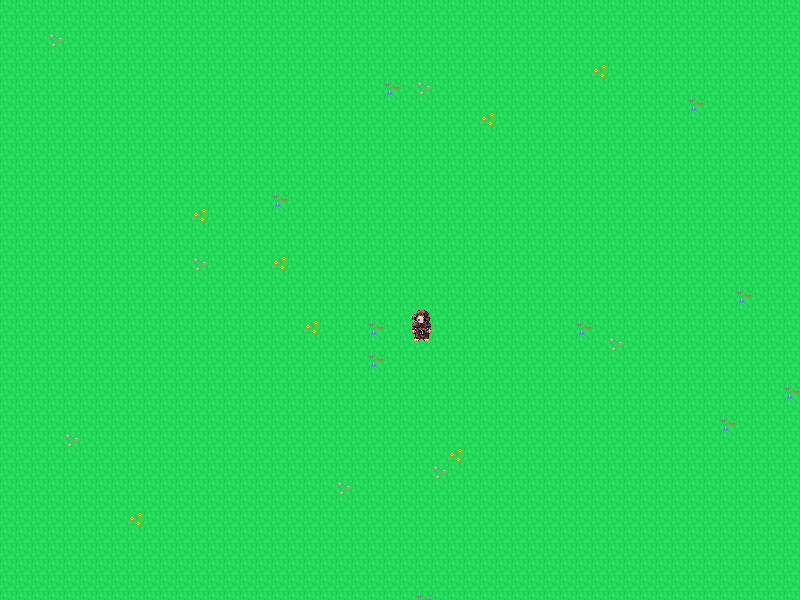
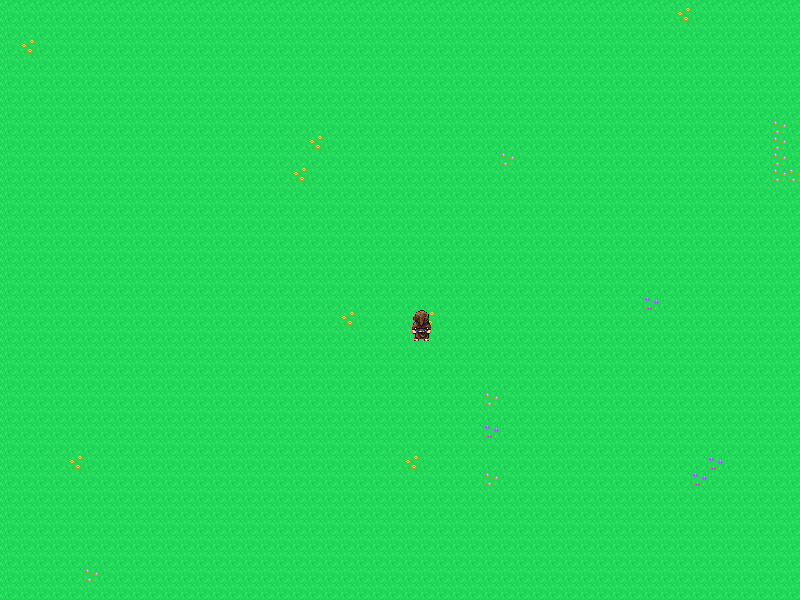
Bug fixes

Changed region(s): [[0.0, 0.0, 1.0, 1.0]]

diff --git a/src/gameplay/player.py b/src/gameplay/player.py
@@ -26,7 +26,7 @@ class Player:
         self.camera_x = x_pos
         self.camera_y = y_pos
 
-    def display(self, screen):
+    def display(self, screen, map):
         pressed_keys = pygame.key.get_pressed()
 
         # Move on keypress
@@ -63,11 +63,23 @@ class Player:
         self.camera_x = self.x_pos - CONFIG.WINDOW_WIDTH / 2
         self.camera_y = self.y_pos - CONFIG.WINDOW_HEIGHT / 2
 
-        # TODO: Do not let the user see the corner of the map
-        if self.camera_x <= 0 and self.x_speed <= 0:
+        # Do not let the user see the corner of the map
+        if self.camera_x <= 0:
             self.camera_x = 0
-        if self.camera_y <= 0 and self.y_speed <= 0:
+        if self.camera_y <= 0:
             self.camera_y = 0
+        if self.camera_x >= map.layer_size[0]:
+            self.camera_x = map.layer_size[0]
+        if self.camera_y >= map.layer_size[1]:
+            self.camera_y = map.layer_size[1]
+
+        # TODO: Do not let the user go out from the map
+        if self.x_pos + map.tileset.tile_size[0] < 0:
+            self.x_pos = 0
+            self.x_speed = 0
+        if self.y_pos + map.tileset.tile_size[1] < 0:
+            self.y_pos = 0
+            self.y_speed = 0
 
         # print('Camera:', (self.camera_x, self.camera_y), 'Pos:', (self.x_pos, self.y_pos), 'Speed:', (self.x_speed, self.y_speed))
         self.body.display(screen, self)

diff --git a/src/screens/game.py b/src/screens/game.py
@@ -36,18 +36,18 @@ class GameScreen(Screen):
         self.in_game_exit_button = Button(96, CONFIG.WINDOW_HEIGHT - 96 - button_margin, label='EXIT')
 
     def display_game(self, screen):
-        self.map.display(self.player, screen)
-        self.player.display(screen)
+        self.map.display(screen, self.player)
+        self.player.display(screen, self.map)
 
         if pygame.key.get_pressed()[pygame.locals.K_ESCAPE]:
-    
+
             # Save game screenshot as a background
             pygame.image.save(screen, CONFIG.BASE_FOLDER + '/images/screenshot.png')
             self.in_game_menu_bg = pygame.image.load(CONFIG.BASE_FOLDER + '/images/screenshot.png')
             self.in_game_menu_bg.set_alpha(150)
-
             self.subscreen = GameSubScreen.IN_GAME_MENU
-            return Screens.GAME
+            
+        return Screens.GAME
 
     def display_in_game_menu(self, screen):
         screen.blit(self.in_game_menu_bg, (0, 0))

diff --git a/src/gfx/map.py b/src/gfx/map.py
@@ -52,6 +52,7 @@ class Map:
                 current_token += ch
 
         map_file.close()
+        self.layer_size = (self.tileset.tile_size[0] / 2 * len(self.layers[0][0]), self.tileset.tile_size[1] / 2 * len(self.layers[0]),)
 
     def parse_key_value(self, line):
         key, value = line.split('=')
@@ -59,7 +60,7 @@ class Map:
         value = value.strip().split('"')[1]
         return key, value
 
-    def display(self, player, screen):
+    def display(self, screen, player):
         for layer in self.layers:
             layer_width = len(layer[0])
             layer_height = len(layer)

diff --git a/__main__.py b/__main__.py
@@ -76,7 +76,7 @@ if __name__ == "__main__":
             last_screen_enum = current_screen_enum
 
         game_clock.tick(CONFIG.FPS_LIMIT)
-        print('FPS:', int(game_clock.get_fps()))
+        # print('FPS:', int(game_clock.get_fps()))
         pygame.display.update()
         pygame.display.flip()
 
